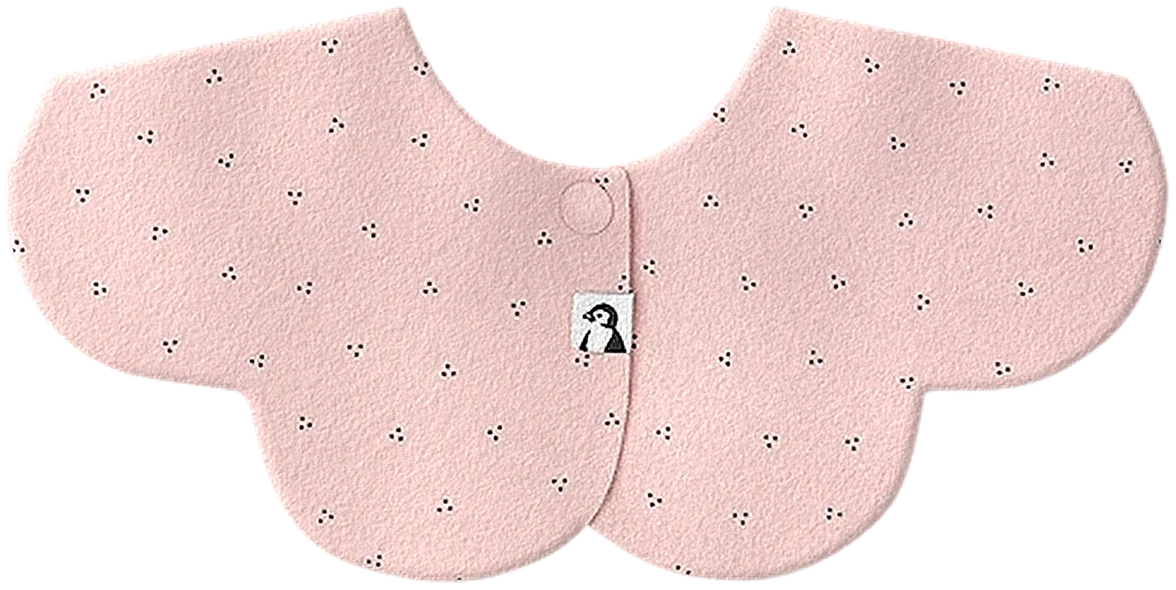
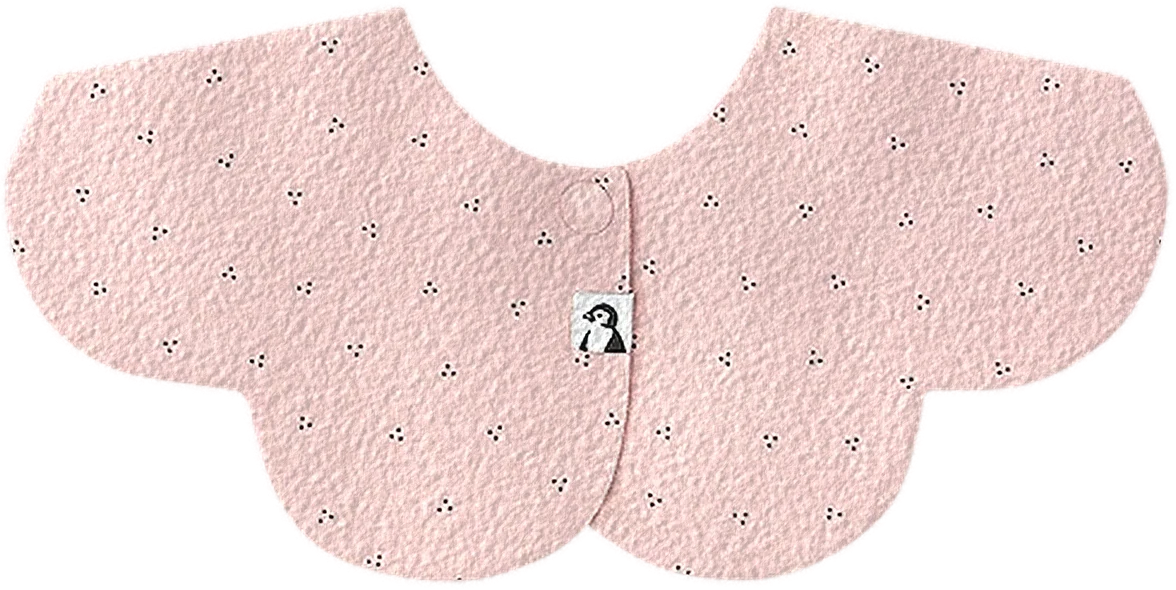
Fleece nap material + flutter slider actually scales the physics
Material (user feedback on v37): edge bevel felt too carved - height
contribution cut 9.0 to 3.5. Soft-fur feel added two ways: a nap-clump
grain layer in the height field, and asperity scattering - surfaces
tilted away from flat (fold crests, silhouette rim) blend toward a pale
tint like brushed fleece catching light. A faint fiber halo just
outside the silhouette softens the cut edge.

Flutter (user: max slider feels like nothing): the force clamp was a
fixed +-5, which any ordinary sway (200px/s+) already saturated - so
100% and 200% rendered identically. The slider now scales the force
limit, max swing angle (up to +-11.5 deg at 200%) and hem ripple cap
(up to 9%). Start/stop thresholds stay at the fixed v35 values; scaling
them down re-admitted rest jitter (the octopus) in simulation.

Verified: 22fps sway sim gives peak tilt 0/2.9/5.7/11.5 deg for slider
0/50/100/200% with zero motion frames on jitter input; rendered hem
moves 44px between ripple phases at the 200% cap. APP_VERSION v38.

diff --git a/js/main.js b/js/main.js
@@ -8,7 +8,7 @@ import {
   DETECT,
   MOBILE_QUERY,
   STATUS_MESSAGES,
-} from './config.js?v37';
+} from './config.js?v38';
 import {
   poseToFit,
   faceToFit,
@@ -20,19 +20,19 @@ import {
   isPlausibleFit,
   applyFusionOffset,
   measureFusionOffset,
-} from './fit-math.js?v37';
-import { applyStopLock, smoothTimed } from './stabilizer.js?v37';
+} from './fit-math.js?v38';
+import { applyStopLock, smoothTimed } from './stabilizer.js?v38';
 import {
   drawBib,
   eraseMaskArea,
   drawBeautyLight,
-} from './renderer.js?v37';
-import { createPoseLandmarker, createFaceLandmarker, createImageSegmenter } from './engine.js?v37';
-import { SEG_MODEL_LITE_URL } from './config.js?v37';
+} from './renderer.js?v38';
+import { createPoseLandmarker, createFaceLandmarker, createImageSegmenter } from './engine.js?v38';
+import { SEG_MODEL_LITE_URL } from './config.js?v38';
 
 // 빌드 버전 — index.html의 ?v= 캐시버스팅과 함께 올린다.
 // ?debug=1 HUD 첫 줄과 콘솔, __vtoDiag()에 표시되어 "지금 어떤 버전인지" 즉시 확인 가능.
-const APP_VERSION = 'v37';
+const APP_VERSION = 'v38';
 
 const $ = (id) => document.getElementById(id);
 
@@ -386,15 +386,21 @@ function renderFrame() {
     // 데드밴드 + 히스테리시스: 정지 상태의 감지 노이즈(±수 px 지터)가
     // 속도로 오인돼 원단이 계속 꿈틀거리는 것("살아있는 문어") 방지.
     // 움직임 시작 판정 60px/s, 종료 판정 25px/s.
+    const flut = state.fx.flutter;
+    // 슬라이더는 세기(힘 한계·최대 기울기·리플 상한)만 배율한다.
+    // v35~37은 힘 클램프가 ±5 고정이라 보통 속도(200px/s+)에서 이미 포화 —
+    // 100%와 200%가 같은 세기로 보였다(슬라이더 무반응의 원인).
+    // 시작/종료 문턱은 v35 값 고정 — 낮추면 정지 지터가 다시 살아난다(문어).
     if (!clothMoving && Math.abs(rawVx) > 60) clothMoving = true;
     else if (clothMoving && Math.abs(rawVx) < 25) clothMoving = false;
     const driveV = clothMoving ? rawVx : 0;
 
-    const flut = state.fx.flutter;
-    const force = Math.max(-5, Math.min(5, -driveV * 0.028 * flut));
+    const fMax = 5 * Math.max(0.25, flut);
+    const force = Math.max(-fMax, Math.min(fMax, -driveV * 0.03 * flut));
     swingV += (-32 * swingA - 5.5 * swingV + force) * dtS;
     swingA += swingV * dtS;
-    swingA = Math.max(-0.14, Math.min(0.14, swingA));
+    const aMax = 0.1 * Math.max(0.5, flut); // 200% → 최대 ±11.5°
+    swingA = Math.max(-aMax, Math.min(aMax, swingA));
     if (!clothMoving) {
       // 정착: 잔진동 빠르게 흡수, 충분히 작아지면 스냅 0 → 원형 그대로
       swingV *= 1 - Math.min(1, dtS * 10);
@@ -408,7 +414,7 @@ function renderFrame() {
 
     // 밑단 리플: 따라오는 동안만 출렁, 정착하면 위상까지 정지 → 완전 원형
     const speed = clothMoving ? Math.abs(driveV) + Math.abs(swingV) * 500 : 0;
-    const targetAmp = clothMoving ? Math.min(0.05 * Math.min(flut, 1.6), speed * 0.0003 * flut) : 0;
+    const targetAmp = clothMoving ? Math.min(0.045 * flut, speed * 0.0005 * flut) : 0;
     rippleAmp += (targetAmp - rippleAmp) * Math.min(1, dtS * (clothMoving ? 6 : 10));
     if (rippleAmp > 0.004) {
       ripplePhase += dtS * (8 + speed * 0.03);
@@ -1233,9 +1239,9 @@ function init() {
     renderFrame();
   };
   const litFiles = {
-    left: './assets/konny-bib-lit-left.webp?v37',
-    top: './assets/konny-bib-lit-top.webp?v37',
-    right: './assets/konny-bib-lit-right.webp?v37',
+    left: './assets/konny-bib-lit-left.webp?v38',
+    top: './assets/konny-bib-lit-top.webp?v38',
+    right: './assets/konny-bib-lit-right.webp?v38',
   };
   const litImgs = {};
   let litLeft = Object.keys(litFiles).length;

diff --git a/index.html b/index.html
@@ -7,7 +7,7 @@
   <meta name="description" content="카메라 영상이 기기 밖으로 전송되지 않는 코니 턱받이 브라우저 가상착용" />
   <meta name="theme-color" content="#fbfaf7" />
   <link rel="preload" as="image" href="./assets/konny-bib-hd.webp" />
-  <link rel="stylesheet" href="./css/app.css?v=37" />
+  <link rel="stylesheet" href="./css/app.css?v=38" />
 </head>
 <body>
   <main class="app-shell">
@@ -232,6 +232,6 @@
     </div>
   </div>
 
-  <script type="module" src="./js/main.js?v=37"></script>
+  <script type="module" src="./js/main.js?v=38"></script>
 </body>
 </html>

diff --git a/js/stabilizer.js b/js/stabilizer.js
@@ -2,8 +2,8 @@
 // 1단계 applyStopLock: 정지 잠금 — 임계값 이하 변화는 무시, 넘을 때만 적응형 게인으로 이동
 // 2단계 smoothTimed: 시간 기반 지수 보간 — 렌더 프레임마다 부드럽게 목표를 따라감
 
-import { clamp } from './fit-math.js?v37';
-import { BIB_ASPECT } from './config.js?v37';
+import { clamp } from './fit-math.js?v38';
+import { BIB_ASPECT } from './config.js?v38';
 
 export function applyStopLock(prev, next) {
   if (!prev) return next;

diff --git a/js/engine.js b/js/engine.js
@@ -1,6 +1,6 @@
 // MediaPipe Tasks Vision 로딩 — GPU 우선, 실패 시 CPU 폴백 (v15 동일)
 
-import { POSE_MODEL_URL, FACE_MODEL_URL, SEG_MODEL_URL, WASM_BASE_URL, VISION_BUNDLE_URL } from './config.js?v37';
+import { POSE_MODEL_URL, FACE_MODEL_URL, SEG_MODEL_URL, WASM_BASE_URL, VISION_BUNDLE_URL } from './config.js?v38';
 
 let visionModulePromise = null;
 let filesetPromise = null;

diff --git a/js/fit-math.js b/js/fit-math.js
@@ -1,7 +1,7 @@
 // 랜드마크 → 착용 핏 계산 (v15 알고리즘 이식)
 // fit = { x, y, width, height, rotation, yaw, pitch, confidence } (픽셀 좌표계)
 
-import { BIB_ASPECT, FACE_OVAL } from './config.js?v37';
+import { BIB_ASPECT, FACE_OVAL } from './config.js?v38';
 
 export const clamp = (value, min, max) => Math.min(max, Math.max(min, value));
 
